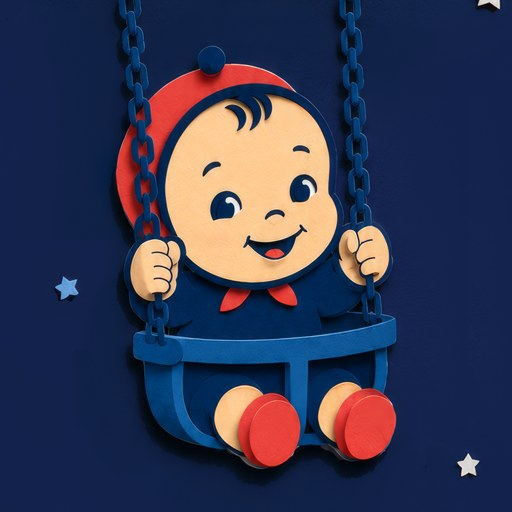
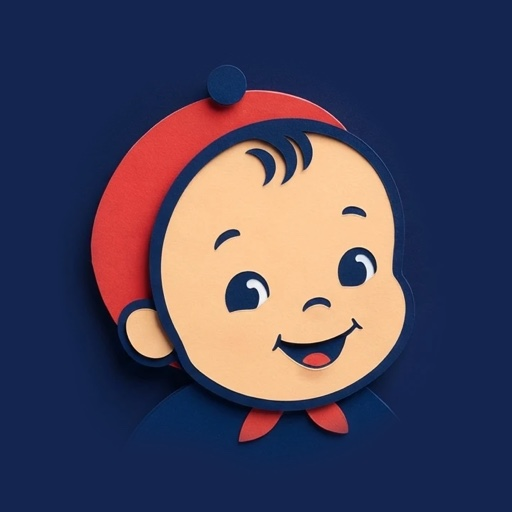
Feature Nugget Log on both stores and add Pin the Reel
Move Nugget Log up to the first app, swap in its new icon, and show
App Store (live) and Google Play (in review) badges with a link to
the App Store listing. Add Pin the Reel with its icon and screenshot.

diff --git a/index.html b/index.html
@@ -480,9 +480,25 @@ main,footer{position:relative}
 .hs-phone.is-empty .label{color:color-mix(in srgb,var(--night-ink) 60%,transparent)}
 .hs-phone.is-empty em{font-family:var(--serif);font-style:italic;font-weight:300;font-size:clamp(20px,1.8vw,26px);color:var(--accent);font-size-adjust:.5;font-weight:500}
 .hs-col.in .hs-icon:hover,.hs-col.in .hs-phone:hover{transform:translateY(-6px)}
+/* store availability tiles, bottom-right of the phone */
+.hs-stores{position:absolute;right:0;bottom:5%;z-index:3;display:flex;align-items:flex-start;opacity:0;transform:translateY(24px);transition:opacity .6s var(--ease) .35s,transform .8s var(--ease) .35s}
+.hs-col.in .hs-stores{opacity:1;transform:none}
+.hs-store{--s:clamp(54px,4.6vw,70px);display:flex;flex-direction:column;align-items:center;gap:8px;text-decoration:none;position:relative}
+.hs-store+.hs-store{margin-left:calc(var(--s) * -.12);margin-top:calc(var(--s) * .5);z-index:1}
+.hs-store b{width:var(--s);aspect-ratio:1;border-radius:23%;display:grid;place-items:center;box-shadow:0 16px 30px -14px rgba(10,20,18,.55);transition:transform .4s var(--ease)}
+.hs-store svg{width:71%;height:71%}
+.hs-store--apple b{background:linear-gradient(180deg,#1ec3fb 0%,#1a74f2 100%)}
+.hs-store--apple svg{fill:none;stroke:#fff;stroke-width:1.7;stroke-linecap:round}
+.hs-store--play b{background:#15191c}
+.hs-store--play svg{width:77%;height:77%;transform:translateX(4%)}
+.hs-store span{font-family:var(--mono);font-size:10px;letter-spacing:.1em;text-transform:uppercase;color:var(--ink);white-space:nowrap}
+a.hs-store:hover b{transform:translateY(-4px)}
+@media(max-width:600px){.hs-stores{right:0;bottom:4%;flex-direction:column;align-items:center;gap:10px}.hs-store{--s:46px}.hs-store+.hs-store{margin:0;z-index:0}}
+@media(max-width:600px){.hs-tiles--app.hs-tiles--stores .hs-phone{height:auto;width:calc(100% - var(--ic) * .78 - 72px)}}
 @media (prefers-reduced-motion:reduce){
   .hs-tiles{min-height:340px}
-  .hs-web,.hs-icon,.hs-phone{opacity:1}
+  .hs-web,.hs-icon,.hs-phone,.hs-stores{opacity:1}
+  .hs-stores{transform:none}
   .hs-web{transform:translateY(-50%)}
   .hs-icon,.hs-phone{transform:none}
 }
@@ -784,7 +800,31 @@ section.card-sec>.wrap{max-width:calc(var(--max) - var(--g));background:var(--ba
             </div>
           </article>
           <article class="hs-col">
-            <div class="label hs-meta"><span>03 / iOS</span><span>App Store · In review</span></div>
+            <div class="label hs-meta"><span>03 / Mobile</span><span>App Store · Play in review</span></div>
+            <h3>Nugget Log</h3>
+            <div class="hs-tiles hs-tiles--app hs-tiles--stores"><img class="hs-icon" src="images/nuggetlog-icon.jpg?v=3" alt="Nugget Log app icon" loading="lazy"><img class="hs-phone" src="images/nuggetlog-shot.jpg" alt="Nugget Log Today screen tracking sleep, feeds and diapers" loading="lazy"><div class="hs-stores" aria-label="Available on iOS and Android">
+              <a class="hs-store hs-store--apple" href="https://apps.apple.com/us/app/nugget-log/id6800586307" target="_blank" rel="noopener" aria-label="Nugget Log on the App Store (live)"><b><svg viewBox="3 3 18 18" aria-hidden="true"><path d="M13.1 5.2 5.6 18.1M10.9 5.2l7.3 12.6M4.9 14h9.4M16.4 14h2.7"/></svg></b><span>Live</span></a>
+              <span class="hs-store hs-store--play" aria-label="Nugget Log on Google Play (in review)"><b><svg viewBox="0 0 24 24" aria-hidden="true"><path fill="#4285F4" d="M5.4 3.3 13.6 12l-8.2 8.7c-.3-.2-.4-.6-.4-1V4.3c0-.4.1-.8.4-1z"/><path fill="#34A853" d="M5.4 3.3c.3-.3.9-.4 1.4-.1l9.7 5.6-2.9 3.2z"/><path fill="#EA4335" d="M5.4 20.7c.3.3.9.4 1.4.1l9.7-5.6-2.9-3.2z"/><path fill="#FBBC04" d="m16.5 8.8 2.9 1.7c1.1.6 1.1 2.4 0 3l-2.9 1.7-2.9-3.2z"/></svg></b><span>In review</span></span>
+            </div></div>
+            <div class="hs-copy">
+              <p class="hs-intent">“Log the little moments, together.”</p>
+              <p class="hs-tags">iOS &amp; Android — live on the App Store, Google Play in review</p>
+              <a class="hs-link" href="https://apps.apple.com/us/app/nugget-log/id6800586307" target="_blank" rel="noopener">View on the App Store →</a>
+
+            </div>
+          </article>
+          <article class="hs-col">
+            <div class="label hs-meta"><span>04 / iOS</span><span>App Store · In review</span></div>
+            <h3>Pin the Reel</h3>
+            <div class="hs-tiles hs-tiles--app"><img class="hs-icon" src="images/pinthereel-icon.jpg" alt="Pin the Reel app icon" loading="lazy"><img class="hs-phone" src="images/pinthereel-shot.jpg" alt="Pin the Reel map of Lisbon with places pinned from a saved reel, sorted by category" loading="lazy"></div>
+            <div class="hs-copy">
+              <p class="hs-intent">“Turn the reels you save into places you actually go.”</p>
+              <p class="hs-tags">Product / SwiftUI &amp; MapKit / AI place extraction</p>
+
+            </div>
+          </article>
+          <article class="hs-col">
+            <div class="label hs-meta"><span>05 / iOS</span><span>App Store · In review</span></div>
             <h3>Fruithood</h3>
             <div class="hs-tiles hs-tiles--app"><img class="hs-icon" src="https://avinoz.com/assets/images/apps/fruithood.png" alt="Fruithood app icon" loading="lazy"><img class="hs-phone" src="images/fruithood-shot.jpg" alt="Fruithood map of fruit trees nearby with filters and a tree detail card" loading="lazy"></div>
             <div class="hs-copy">
@@ -794,22 +834,12 @@ section.card-sec>.wrap{max-width:calc(var(--max) - var(--g));background:var(--ba
             </div>
           </article>
           <article class="hs-col">
-            <div class="label hs-meta"><span>04 / iOS</span><span>App Store · In review</span></div>
+            <div class="label hs-meta"><span>06 / iOS</span><span>App Store · In review</span></div>
             <h3>Kin &amp; Tot</h3>
             <div class="hs-tiles hs-tiles--app"><img class="hs-icon" src="https://avinoz.com/assets/images/apps/kin-and-tot.png" alt="Kin &amp; Tot app icon" loading="lazy"><img class="hs-phone" src="images/kinandtot-shot.jpg" alt="Kin &amp; Tot map of nearby families filtered by age and distance" loading="lazy"></div>
             <div class="hs-copy">
               <p class="hs-intent">“An app families actually open.”</p>
               <p class="hs-tags">Product / UX &amp; UI / native iOS engineering</p>
-              
-            </div>
-          </article>
-          <article class="hs-col">
-            <div class="label hs-meta"><span>05 / iOS</span><span>App Store · In review</span></div>
-            <h3>Nugget Log</h3>
-            <div class="hs-tiles hs-tiles--app"><img class="hs-icon" src="images/nuggetlog-icon.jpg" alt="Nugget Log app icon" loading="lazy"><img class="hs-phone" src="images/nuggetlog-shot.jpg" alt="Nugget Log Today screen tracking sleep, feeds and diapers" loading="lazy"></div>
-            <div class="hs-copy">
-              <p class="hs-intent">“Log the little moments, together.”</p>
-              <p class="hs-tags">Product / illustration / native iOS engineering</p>
               
             </div>
           </article>
